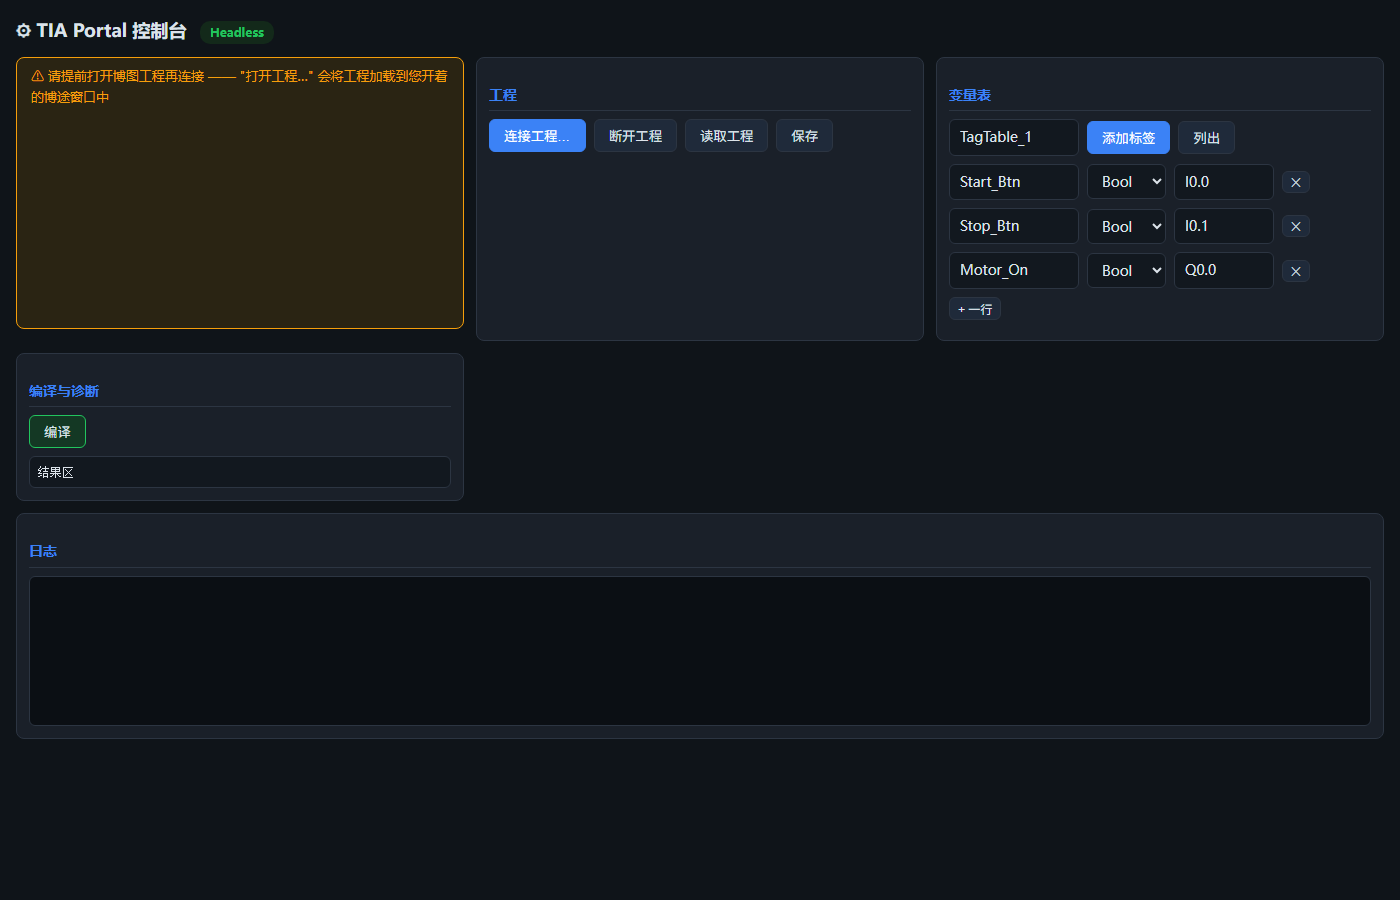
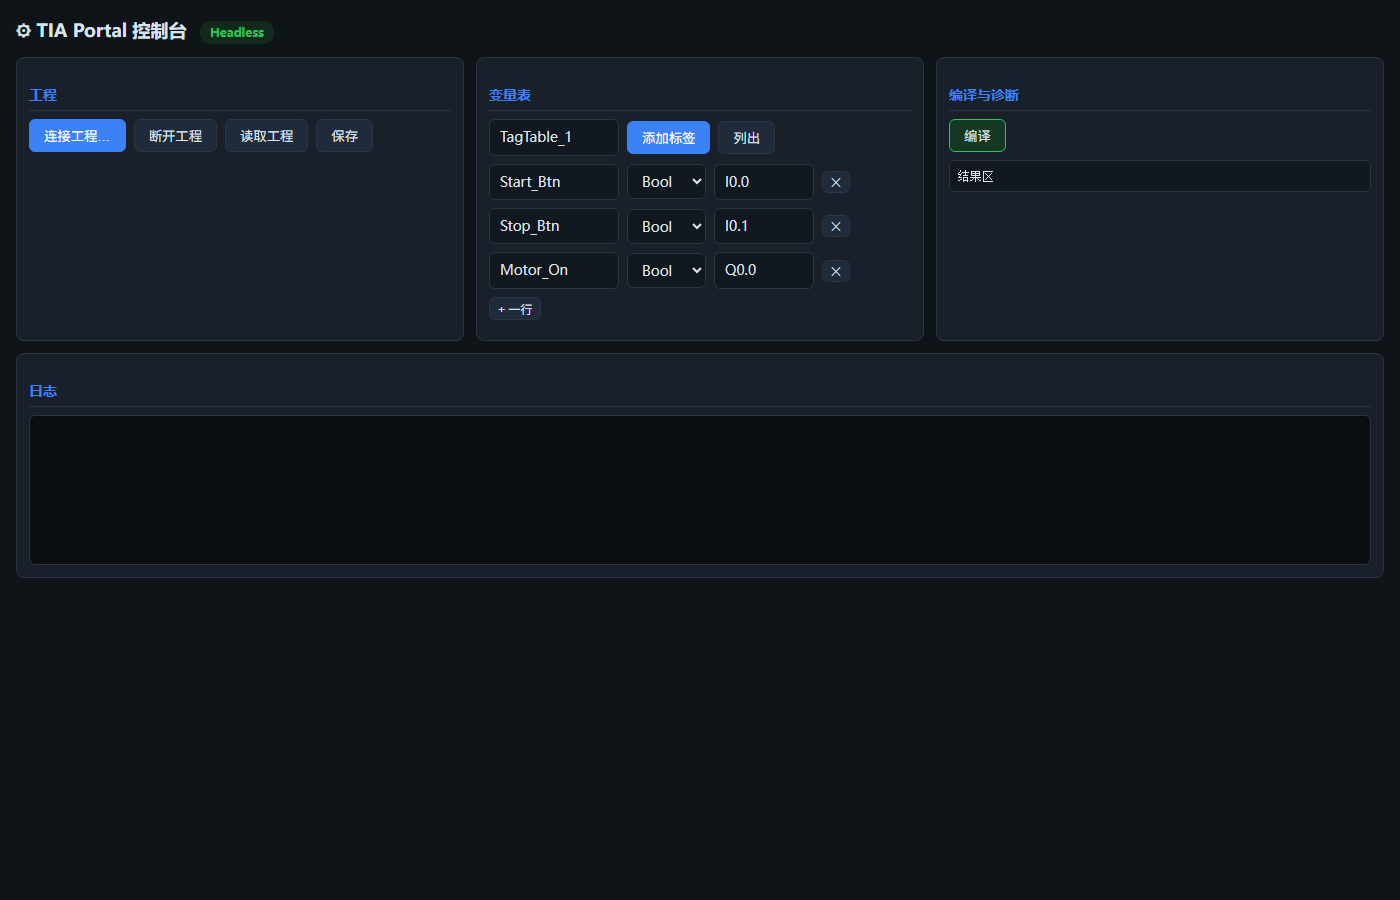
web: 去掉顶部提示条(状态栏已显示连接状态)

diff --git a/web_ui/static/index.html b/web_ui/static/index.html
@@ -29,7 +29,6 @@
   #log { background:#0b0f14; border:1px solid var(--line); border-radius:6px; height:150px; overflow-y:auto; font:12px/1.5 Consolas,monospace; padding:8px; color:var(--dim); }
   .btn-mini { padding:2px 8px; font-size:12px; }
   .bar { display:flex; justify-content:space-between; align-items:center; margin-bottom:10px; }
-  .hint { background:#2a2413; border:1px solid var(--warn); color:var(--warn); border-radius:8px; padding:8px 14px; margin-bottom:12px; font-size:13px; }
   #result { background:#12181f; border:1px solid var(--line); border-radius:6px; padding:8px; font:12px Consolas,monospace; max-height:220px; overflow:auto; white-space:pre-wrap; }
 </style>
 </head>
@@ -37,8 +36,6 @@
 <h1>⚙ TIA Portal 控制台 <span id="statusBar" class="status st-off">未连接</span></h1>
 
 <div class="grid">
-  <div class="hint">⚠ 请提前打开博图工程再连接 —— "打开工程…" 会将工程加载到您开着的博途窗口中</div>
-
   <!-- 工程 -->
   <div class="panel">
     <h2>工程</h2>
